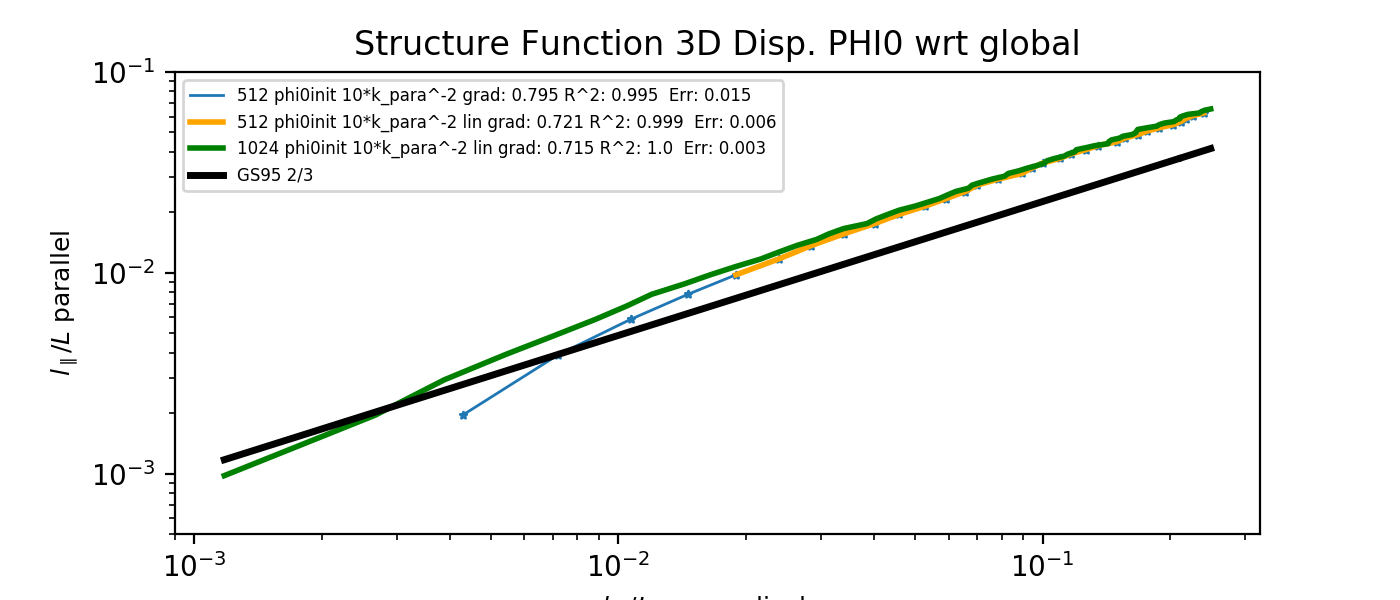
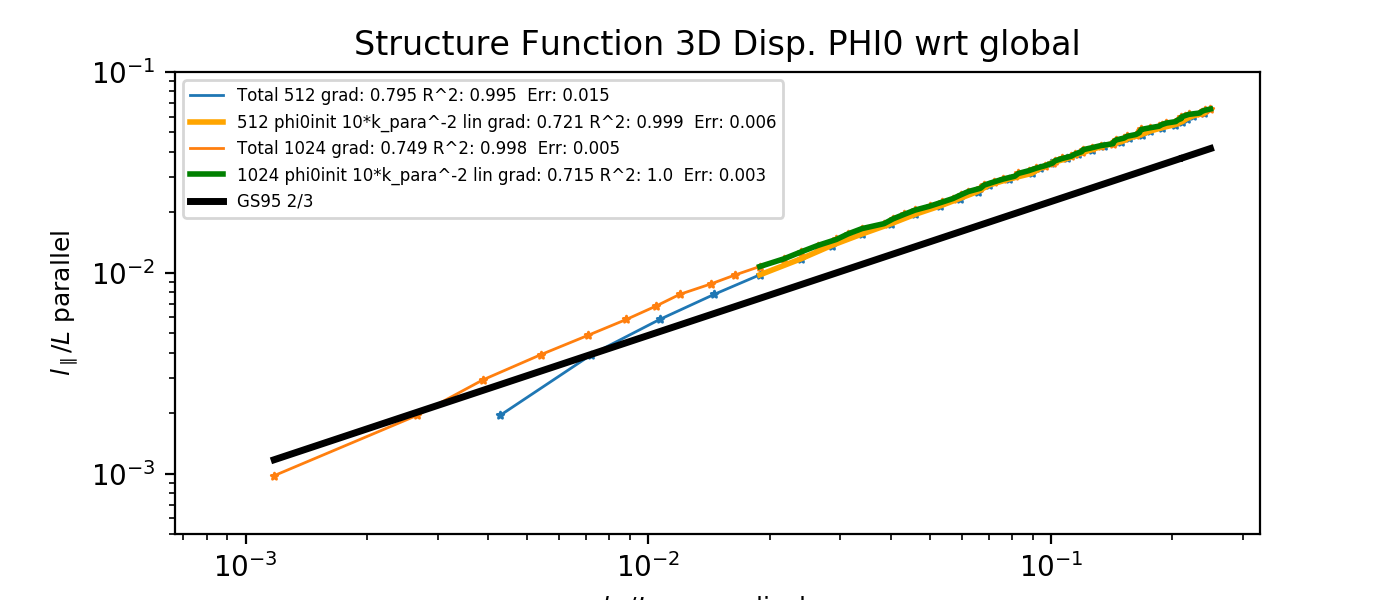
1024 phi0init final plot

diff --git a/Code_Analysis/plot_sf.py b/Code_Analysis/plot_sf.py
@@ -550,12 +550,13 @@ slope_512_phi0init_10_2, rval_512_phi0init_10_2, err_512_phi0init_10_2 = linfit(
 
 start = 4
 slope_512_phi0init_10_2_lin, rval_512_phi0init_10_2_lin, err_512_phi0init_10_2_lin = linfit(lperp29,lpar29, start, count_512_10_2)
-
+start_10 = 10
 #slope_512_phi0init_10_3_2, rval_512_phi0init_10_3_2, err_512_phi0init_10_3_2 = linfit(lperp30,lpar30, 0, count_512_10_3_2)
 
 #slope_512_phi0init_10_5_3, rval_512_phi0init_10_5_3, err_512_phi0init_10_5_3 = linfit(lperp31,lpar31, 0, count_512_10_5_3)
+slope_1024_phi0init_10_2_lin, rval_1024_phi0init_10_2_lin, err_1024_phi0init_10_2_lin = linfit(lperp32,lpar32, start, count_1024_10_2)
 
-slope_1024_phi0init_10_2, rval_1024_phi0init_10_2, err_1024_phi0init_10_2 = linfit(lperp32,lpar32, start, count_1024_10_2)
+slope_1024_phi0init_10_2, rval_1024_phi0init_10_2, err_1024_phi0init_10_2 = linfit(lperp32,lpar32, 0, count_1024_10_2)
 #--------------------------------------------------------------------------------------------------------------------------------------------
 # 2d squares vs displacement phi PLOT
 #--------------------------------------------------------------------------------------------------------------------------------------------
@@ -680,11 +681,12 @@ ax1 = plt.subplot(gs[0])
 #ax1.plot(lperp26[:count_256_10_2], lpar26[:count_256_10_2], lw=2, ls = "-.", label="256 10*k_para^-2 grad: %s R^2: %s  Err: %s" % (slope_256_test_102, rval_256_102, err_256_102))
 
 ax1.scatter(lperp29[0:count_512_10_2], lpar29[0:count_512_10_2], s = 6, marker = '*',) #label="512 phi0init 10*k_para^-2 grad: %s R^2: %s  Err: %s" % (slope_512_phi0init_10_2, rval_512_phi0init_10_2, err_512_phi0init_10_2))
-ax1.plot(lperp29[0:count_512_10_2], lpar29[0:count_512_10_2], lw = 1, label="512 phi0init 10*k_para^-2 grad: %s R^2: %s  Err: %s" % (slope_512_phi0init_10_2, rval_512_phi0init_10_2, err_512_phi0init_10_2))
+ax1.plot(lperp29[0:count_512_10_2], lpar29[0:count_512_10_2], lw = 1, label="Total 512 grad: %s R^2: %s  Err: %s" % (slope_512_phi0init_10_2, rval_512_phi0init_10_2, err_512_phi0init_10_2))
 ax1.plot(lperp29[start:count_512_10_2], lpar29[start:count_512_10_2], lw=2, ls = "-", color = 'orange', label="512 phi0init 10*k_para^-2 lin grad: %s R^2: %s  Err: %s" % (slope_512_phi0init_10_2_lin, rval_512_phi0init_10_2_lin, err_512_phi0init_10_2_lin))
-start = 0
-ax1.plot(lperp32[start:count_1024_10_2], lpar32[start:count_1024_10_2], lw=2, ls = "-", color = 'green', label="1024 phi0init 10*k_para^-2 lin grad: %s R^2: %s  Err: %s" % (slope_1024_phi0init_10_2, rval_1024_phi0init_10_2, err_1024_phi0init_10_2))
 
+ax1.plot(lperp32[0:count_1024_10_2], lpar32[0:count_1024_10_2], lw = 1, label="Total 1024 grad: %s R^2: %s  Err: %s" % (slope_1024_phi0init_10_2, rval_1024_phi0init_10_2, err_1024_phi0init_10_2))
+ax1.plot(lperp32[start_10:count_1024_10_2], lpar32[start_10:count_1024_10_2], lw=2, ls = "-", color = 'green', label="1024 phi0init 10*k_para^-2 lin grad: %s R^2: %s  Err: %s" % (slope_1024_phi0init_10_2_lin, rval_1024_phi0init_10_2_lin, err_1024_phi0init_10_2_lin))
+ax1.scatter(lperp32[0:count_1024_10_2], lpar32[0:count_1024_10_2], s = 6, marker = '*',)
 #ax1.plot(lperp30[:count_512_10_3_2], lpar30[:count_512_10_3_2], lw=2, ls = "-.", label="512 phi0init 10*k_para^-3/2 grad: %s R^2: %s  Err: %s" % (slope_512_phi0init_10_3_2, rval_512_phi0init_10_3_2, err_512_phi0init_10_3_2))
 
 #ax1.plot(lperp31[:count_512_10_5_3], lpar31[:count_512_10_5_3], lw=2, ls = "-.", label="512 phi0init 10*k_para^-5/3 grad: %s R^2: %s  Err: %s" % (slope_512_phi0init_10_5_3, rval_512_phi0init_10_5_3, err_512_phi0init_10_5_3))
